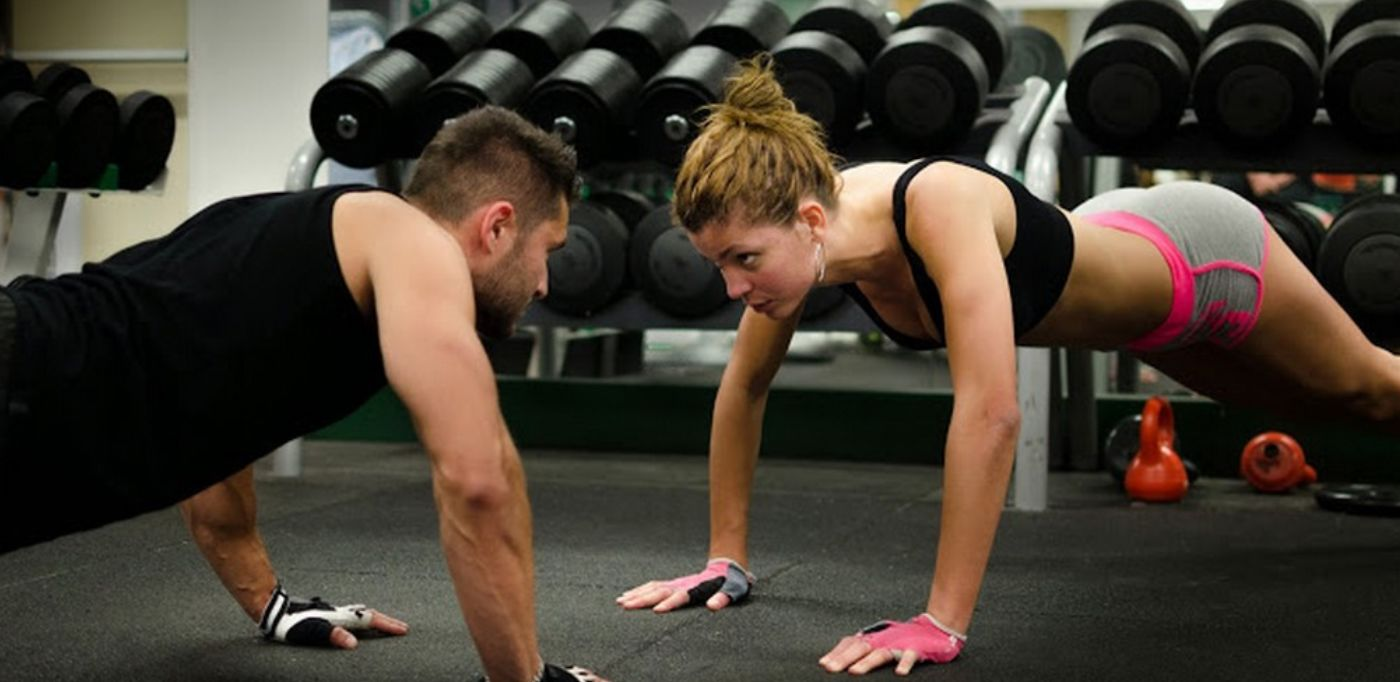
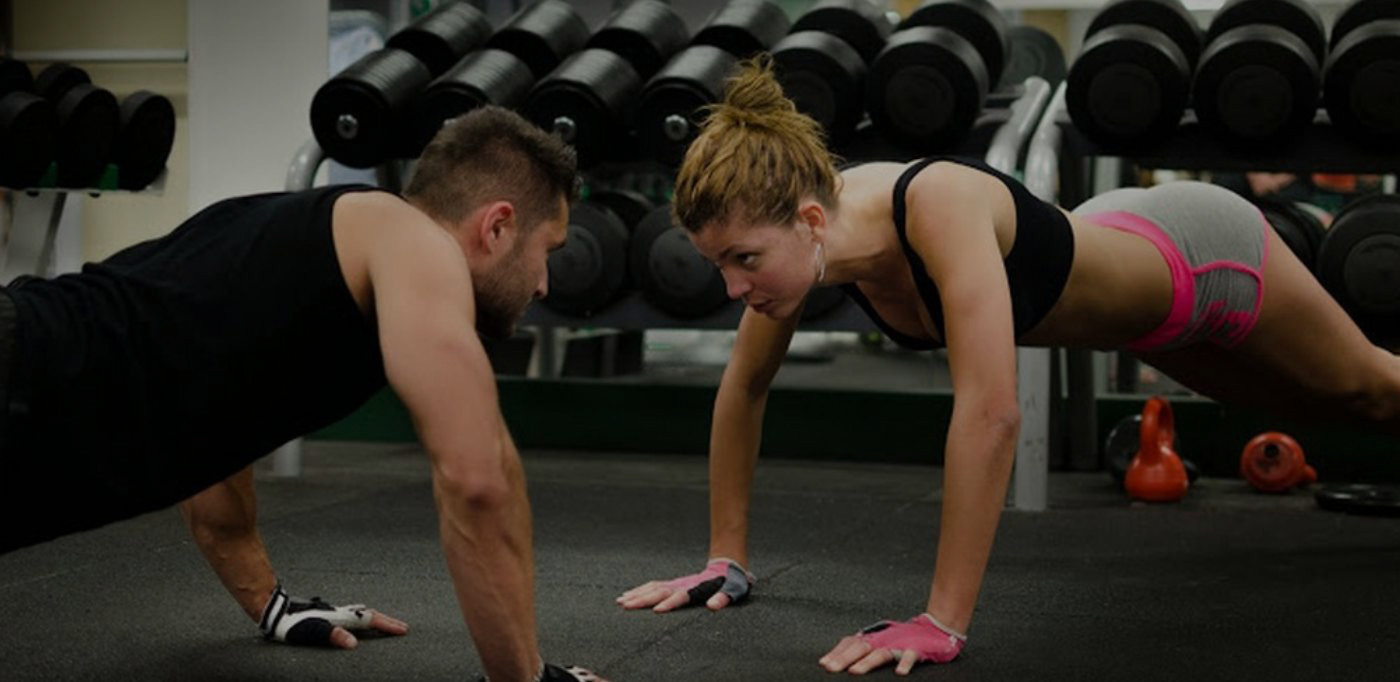
Changement image

diff --git a/src/pages/sport/sport-workout/sport-workout.html b/src/pages/sport/sport-workout/sport-workout.html
@@ -1,13 +1,138 @@
-<ion-header>
-  <ion-navbar>
-    <ion-title>Workout</ion-title>
-  </ion-navbar>
-</ion-header>
+<link href="https://afeld.github.io/emoji-css/emoji.css" rel="stylesheet">
 
-<ion-content>
-  <ion-list>
-    <button ion-item detail-push *ngFor="let item of items" (click)="itemSelected(item)">
-      {{ item }}
-    </button>
-  </ion-list>
-</ion-content>
+<ion-header>
+    <ion-navbar no-border-bottom>
+      <ion-title>
+        Workout
+      </ion-title>
+    </ion-navbar>
+    <ion-toolbar no-border-top>
+        <ion-segment [(ngModel)]="bodyPart">
+          <ion-segment-button value="Leg">
+              Leg
+          </ion-segment-button>
+          <ion-segment-button value="Abdos">
+              Abdos
+          </ion-segment-button>
+          <ion-segment-button value="Arms">
+              Arms
+          </ion-segment-button>
+          <ion-segment-button value="Shoulders">
+              Shoulders
+            </ion-segment-button>
+        </ion-segment>
+      </ion-toolbar>
+    </ion-header>
+
+
+    <ion-content>
+        <div [ngSwitch]="bodyPart">
+          <ion-list *ngSwitchCase="'Leg'">
+              <button ion-item (click)="SingleLegLift()">
+                  Single leg lift
+                  <p>30 repetitions</p>
+                  <ion-note item-end>
+                    <i class="em em-zap"></i>
+                  </ion-note>
+                </button>
+                <button ion-item (click)="SideLunge()">
+                    Side lunge
+                    <p>15 repetitions</p>
+                    <ion-note item-end>
+                      <i class="em em-zap"></i>
+                    </ion-note>
+                  </button>
+            
+                <button ion-item (click)="DoubleLegLift()">
+                  Double leg lift
+                  <p>20 repetitions</p>
+                  <ion-note item-end>
+                    <i class="em em-zap"></i>
+                    <i class="em em-zap"></i>
+                  </ion-note>
+                </button>
+            
+                <button ion-item (click)="SquatJump()">
+                  Squat jump
+                  <p>10 repetitions</p>
+                  <ion-note item-end>
+                    <i class="em em-zap"></i>
+                    <i class="em em-zap"></i>
+                  </ion-note>
+                </button>
+                
+                <button ion-item (click)="LegPullFront()">
+                  Leg pull front
+                  <p>20 repetitions</p>
+                  <ion-note item-end>
+                    <i class="em em-zap"></i>
+                    <i class="em em-zap"></i>
+                    <i class="em em-zap"></i>
+                  </ion-note>
+                </button>
+                <button ion-item (click)="ScissorBoxJump()">
+                    Scissor box jump
+                    <p>20 repetitions</p>
+                    <ion-note item-end>
+                      <i class="em em-zap"></i>
+                      <i class="em em-zap"></i>
+                      <i class="em em-zap"></i>
+                    </ion-note>
+                  </button>
+          </ion-list>
+      
+          <ion-list *ngSwitchCase="'kittens'">
+            <ion-item>
+              <ion-thumbnail item-start>
+                <img src="assets/img/thumbnail-kitten-1.jpg">
+              </ion-thumbnail>
+              <h2>Luna</h2>
+            </ion-item>
+            <ion-item>
+              <ion-thumbnail item-start>
+                <img src="assets/img/thumbnail-kitten-3.jpg">
+              </ion-thumbnail>
+              <h2>Milo</h2>
+            </ion-item>
+            <ion-item>
+              <ion-thumbnail item-start>
+                <img src="assets/img/thumbnail-kitten-4.jpg">
+              </ion-thumbnail>
+              <h2>Bandit</h2>
+            </ion-item>
+            <ion-item>
+              <ion-thumbnail item-start>
+                <img src="assets/img/thumbnail-kitten-2.jpg">
+              </ion-thumbnail>
+              <h2>Nala</h2>
+            </ion-item>
+          </ion-list>
+      
+          <ion-list *ngSwitchCase="'ducklings'">
+            <ion-item>
+              <ion-thumbnail item-start>
+                <img src="assets/img/thumbnail-duckling-1.jpg">
+              </ion-thumbnail>
+              <h2>Daffy</h2>
+            </ion-item>
+            <ion-item>
+              <ion-thumbnail item-start>
+                <img src="assets/img/thumbnail-duckling-2.jpg">
+              </ion-thumbnail>
+              <h2>Huey</h2>
+            </ion-item>
+            <ion-item>
+              <ion-thumbnail item-start>
+                <img src="assets/img/thumbnail-duckling-3.jpg">
+              </ion-thumbnail>
+              <h2>Dewey</h2>
+            </ion-item>
+            <ion-item>
+              <ion-thumbnail item-start>
+                <img src="assets/img/thumbnail-duckling-4.jpg">
+              </ion-thumbnail>
+              <h2>Louie</h2>
+            </ion-item>
+          </ion-list>
+        </div>
+      </ion-content>

diff --git a/src/pages/sport/sport-workout/sport-workout.ts b/src/pages/sport/sport-workout/sport-workout.ts
@@ -1,6 +1,7 @@
 import { Component } from '@angular/core';
 import { NavController } from 'ionic-angular';
 import { LegExercise } from "../sport-workout-leg/sport-workout-leg"
+import {SimpleLegLift} from '../sport-workout-leg-simpleleglift/sport-workout-leg-simpleleglift';
 
 @Component({
   selector: 'page-sport-workout',
@@ -9,24 +10,10 @@ import { LegExercise } from "../sport-workout-leg/sport-workout-leg"
 export class SportWorkoutPage {
 
   constructor(public navCtrl: NavController) {
-
   }
 
-  items = [
-    'Legs & Buttocks',
-    'Abdos',
-    'Arms',
-    'Shoulders'
-    ];
-
-  itemSelected(item: string) {
-    
-    console.log("Selected Item", item);
-    
-    if(item == "Legs & Buttocks")
-    {
-        this.navCtrl.push(LegExercise);
-    }
+  SingleLegLift(){
+    this.navCtrl.push(SimpleLegLift);
   }
 
 }

diff --git a/src/pages/sport/sport-workout-leg/sport-workout-leg.html b/src/pages/sport/sport-workout-leg/sport-workout-leg.html
@@ -9,9 +9,6 @@
 <ion-content>
 
   <ion-list>
-
- 
-
     <button ion-item (click)="SingleLegLift()">
       Single leg lift
       <p>30 repetitions</p>
@@ -26,7 +23,6 @@
           <i class="em em-zap"></i>
         </ion-note>
       </button>
-
 
     <button ion-item (click)="DoubleLegLift()">
       Double leg lift
@@ -45,9 +41,7 @@
         <i class="em em-zap"></i>
       </ion-note>
     </button>
-
-
-
+    
     <button ion-item (click)="LegPullFront()">
       Leg pull front
       <p>20 repetitions</p>

diff --git a/src/pages/sport/sport-home/sport-home.html b/src/pages/sport/sport-home/sport-home.html
@@ -12,12 +12,12 @@
   </ion-card>
 
   <ion-card (click)="sportDating()">
-    <img src="assets/imgs/sport-dating.jpg"/>
+    <img src="assets/imgs/sport-dating2.jpg"/>
     <div class="card-title">Sport Dating</div>
   </ion-card>
 
   <ion-card (click)="sportWorkout()">
-    <img src="assets/imgs/exercise.jpg"/>
+    <img src="assets/imgs/exercise2.jpg"/>
     <div class="card-title">Workout</div>
   </ion-card>
 
